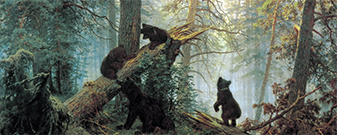
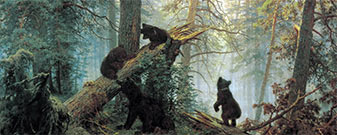
Images were changed

diff --git a/index.html b/index.html
@@ -37,7 +37,7 @@
 				<div class="slide__mover">
 					
 					<div class="zoomer flex-center">
-						<img class="zoomer__image" src="images/paint1.png" alt="Shishkin Rye" />
+						<img class="zoomer__image" src="images/paint1.jpg" alt="Shishkin Rye" />
 						<div class="preview">
 								<div class="zoomer__area zoomer__area--size-1"></div>
 						</div>
@@ -48,7 +48,7 @@
 			<div class="slide" data-content="content-2">
 				<div class="slide__mover">
 					<div class="zoomer flex-center">
-						<img class="zoomer__image" src="images/paint2.png" alt="Morning in a Pine Forest" />
+						<img class="zoomer__image" src="images/paint2.jpg" alt="Morning in a Pine Forest" />
 						<div class="preview">
 							<div class="zoomer__area zoomer__area--size-1"></div>
 						</div>
@@ -59,7 +59,7 @@
 			<div class="slide" data-content="content-3">
 				<div class="slide__mover">
 					<div class="zoomer flex-center">
-						<img class="zoomer__image" src="images/paint3.png" alt="The Black Sea" />
+						<img class="zoomer__image" src="images/paint3.jpg" alt="The Black Sea" />
 						<div class="preview">
 							<div class="zoomer__area zoomer__area--size-1"></div>
 						</div>
@@ -70,7 +70,7 @@
 			<div class="slide" data-content="content-4">
 				<div class="slide__mover">
 					<div class="zoomer flex-center">
-						<img class="zoomer__image" src="images/paint4.png" alt="The Coast at Amalfi" />
+						<img class="zoomer__image" src="images/paint4.jpg" alt="The Coast at Amalfi" />
 						<div class="preview">
 							<div class="zoomer__area zoomer__area--size-1"></div>
 						</div>
@@ -81,7 +81,7 @@
 			<div class="slide" data-content="content-5">
 				<div class="slide__mover">
 					<div class="zoomer flex-center">
-						<img class="zoomer__image" src="images/paintFr4.png" alt="The Card Sharp on the Boulevard" />
+						<img class="zoomer__image" src="images/paintFr4.jpg" alt="The Card Sharp on the Boulevard" />
 						<div class="preview rounded">
 							<div class="zoomer__area zoomer__area--size-1"></div>
 						</div>
@@ -92,7 +92,7 @@
 			<div class="slide" data-content="content-6">
 				<div class="slide__mover">
 					<div class="zoomer flex-center">
-						<img class="zoomer__image" src="images/paintFr1.png" alt="The Horse Fair" />
+						<img class="zoomer__image" src="images/paintFr1.jpg" alt="The Horse Fair" />
 						<div class="preview rounded">
 							<div class="zoomer__area zoomer__area--size-1"></div>
 						</div>
@@ -103,7 +103,7 @@
 			<div class="slide" data-content="content-7">
 				<div class="slide__mover">
 					<div class="zoomer flex-center">
-						<img class="zoomer__image" src="images/paintFr2.png" alt="The Garden of the Tuileries on a Spring Morning" />
+						<img class="zoomer__image" src="images/paintFr2.jpg" alt="The Garden of the Tuileries on a Spring Morning" />
 						<div class="preview rounded">
 							<div class="zoomer__area zoomer__area--size-1"></div>
 						</div>
@@ -114,7 +114,7 @@
 			<div class="slide" data-content="content-8">
 				<div class="slide__mover">
 					<div class="zoomer flex-center">
-						<img class="zoomer__image" src="images/paintFr3.png" alt="Garden at Sainte-Adresse" />
+						<img class="zoomer__image" src="images/paintFr3.jpg" alt="Garden at Sainte-Adresse" />
 						<div class="preview rounded">
 							<div class="zoomer__area zoomer__area--size-1"></div>
 						</div>
@@ -131,7 +131,7 @@
 		<!--PopUpSlider-->
 		<section class="content">
 			<div class="content__item" id="content-1">
-				<img class="content__item-img rounded-right" src="images/paint1.png" alt="Shishkin Rye" />
+				<img class="content__item-img rounded-right" src="images/paint1.jpg" alt="Shishkin Rye" />
 				<div class="content__item-inner">
 					<h2>Shishkin Ivan Ivanovich</h2>
 					<h3>Rye (1878)</h3>
@@ -142,7 +142,7 @@
 				</div>
 			</div>
 			<div class="content__item" id="content-2">
-				<img class="content__item-img rounded-right" src="images/paint2.png" alt="Shishkin Morning" />
+				<img class="content__item-img rounded-right" src="images/paint2.jpg" alt="Shishkin Morning" />
 				<div class="content__item-inner">
 					<h2>Shishkin Ivan Ivanovich</h2>
 					<h3>Morning in a Pine Forest (1889)</h3>
@@ -152,7 +152,7 @@
 				</div>
 			</div>
 			<div class="content__item" id="content-3">
-				<img class="content__item-img rounded-right" src="images/paint3.png" alt="The Black Sea" />
+				<img class="content__item-img rounded-right" src="images/paint3.jpg" alt="The Black Sea" />
 				<div class="content__item-inner">
 					<h2>Ivan Aivazovsky</h2>
 					<h3>The Black Sea (1881)</h3>
@@ -163,7 +163,7 @@
 				</div>
 			</div>
 			<div class="content__item" id="content-4">
-				<img class="content__item-img rounded-right" src="images/paint4.png" alt="The Coast at Amalfi" />
+				<img class="content__item-img rounded-right" src="images/paint4.jpg" alt="The Coast at Amalfi" />
 				<div class="content__item-inner">
 					<h2>Ivan Aivazovsky</h2>
 					<h3>The Coast at Amalfi (1841)</h3>
@@ -174,7 +174,7 @@
 				</div>
 			</div>
 			<div class="content__item" id="content-5">
-				<img class="content__item-img rounded-right" src="images/paintFr4.png" alt="The Card Sharp on the Boulevard" />
+				<img class="content__item-img rounded-right" src="images/paintFr4.jpg" alt="The Card Sharp on the Boulevard" />
 				<div class="content__item-inner">
 					<h2>Louis-Léopold Boilly</h2>
 					<h3>The Card Sharp on the Boulevard (1806)</h3>
@@ -184,7 +184,7 @@
 				</div>
 			</div>
 			<div class="content__item" id="content-6">
-				<img class="content__item-img rounded-right" src="images/paintFr1.png" alt="The Horse Fair" />
+				<img class="content__item-img rounded-right" src="images/paintFr1.jpg" alt="The Horse Fair" />
 				<div class="content__item-inner">
 					<h2>Rosa Bonheur</h2>
 					<h3>The Horse Fair (1855)</h3>
@@ -194,7 +194,7 @@
 				</div>
 			</div>
 			<div class="content__item" id="content-7">
-				<img class="content__item-img rounded-right" src="images/paintFr2.png" alt="The Garden of the Tuileries on a Spring Morning" />
+				<img class="content__item-img rounded-right" src="images/paintFr2.jpg" alt="The Garden of the Tuileries on a Spring Morning" />
 				<div class="content__item-inner">
 					<h2>Camille Pissarro</h2>
 					<h3>The Garden of the Tuileries on a Spring Morning (1899)</h3>
@@ -205,7 +205,7 @@
 				</div>
 			</div>
 			<div class="content__item" id="content-8">
-				<img class="content__item-img rounded-right" src="images/paintFr3.png" alt="Garden at Sainte-Adresse" />
+				<img class="content__item-img rounded-right" src="images/paintFr3.jpg" alt="Garden at Sainte-Adresse" />
 				<div class="content__item-inner">
 					<h2>Claude Monet</h2>
 					<h3>Garden at Sainte-Adresse (1867)</h3>
